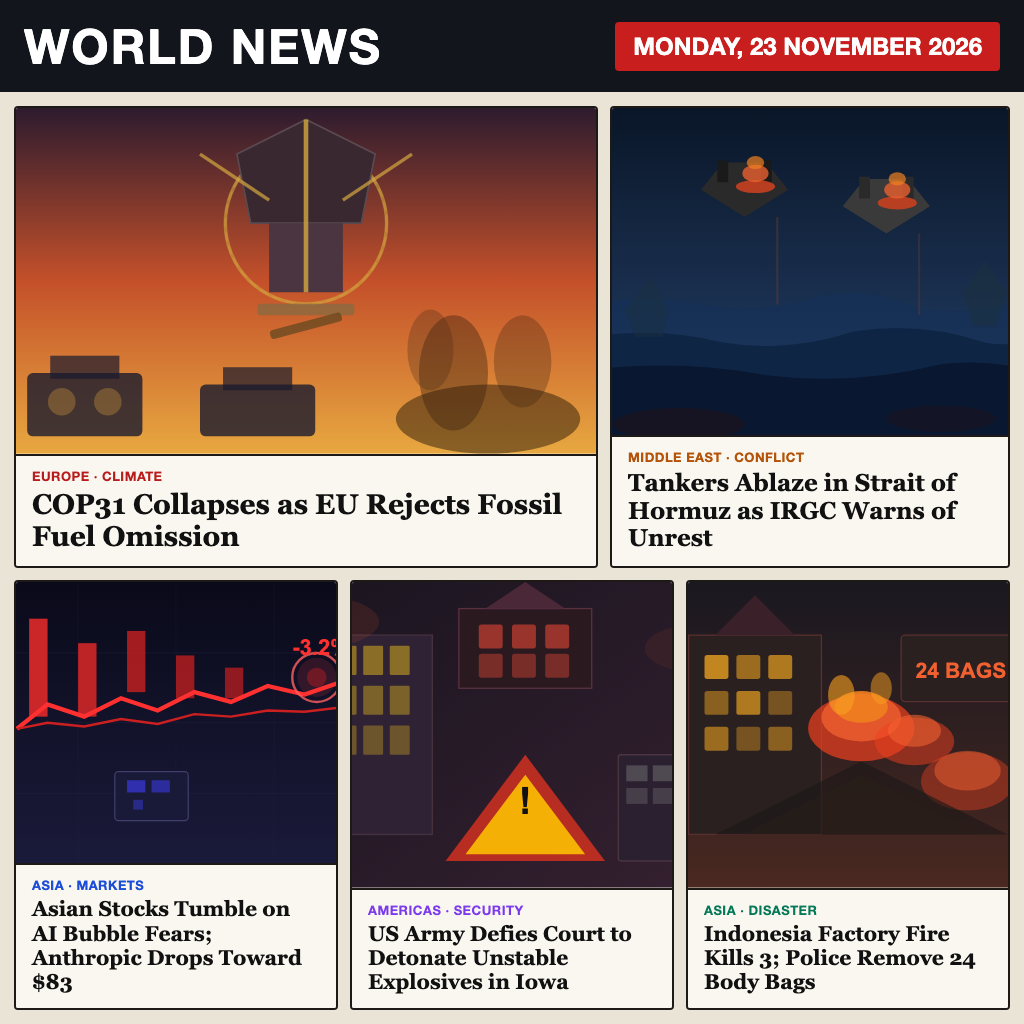
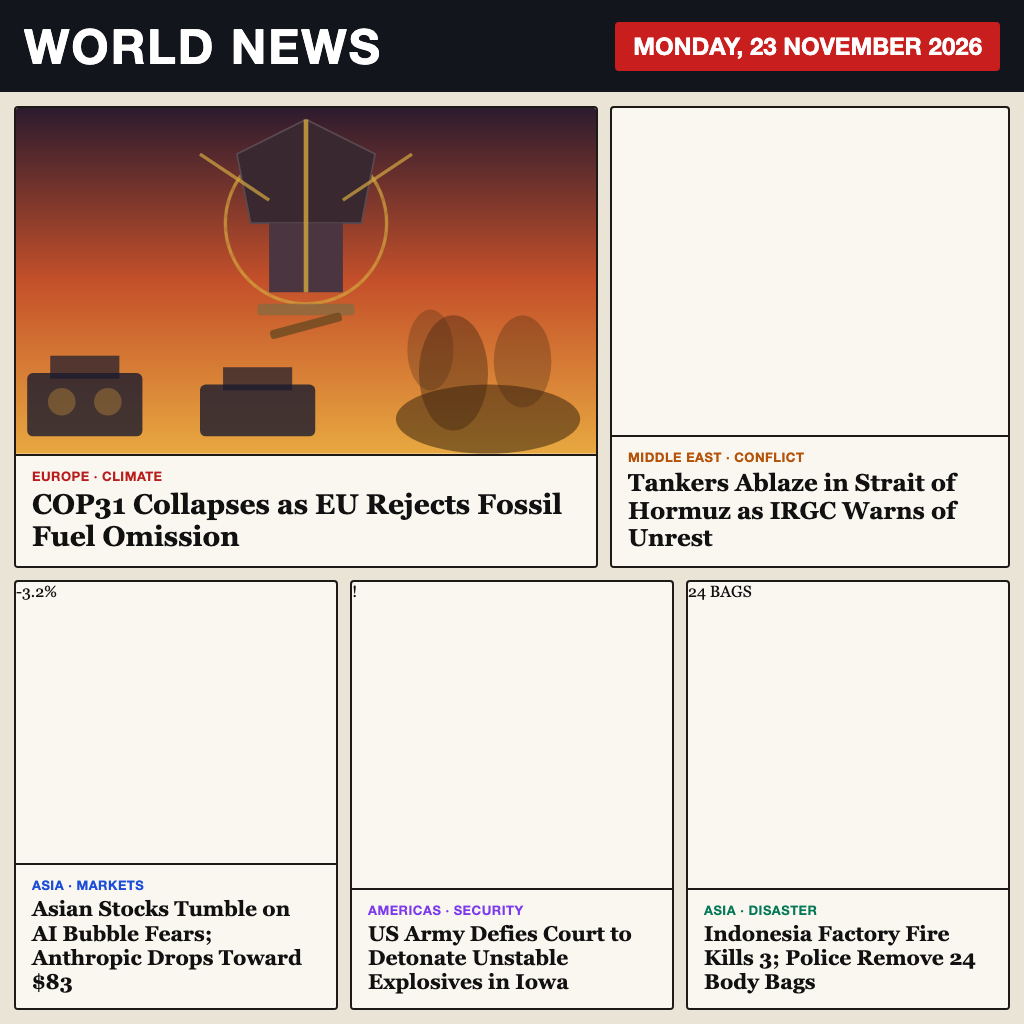
Authorship: SVG + HTML comments via Edit tool

diff --git a/assets/page.html b/assets/page.html
@@ -1,4 +1,4 @@
-<!DOCTYPE html>
+<!-- Editorial news template: 5-card grid layout -->
 <html><head><meta charset="utf-8"><style>
 *{margin:0;padding:0;box-sizing:border-box}
 body{width:1024px;height:1024px;overflow:hidden;background:#EAE4D7;font-family:Georgia,serif;color:#111}
@@ -25,22 +25,27 @@ body{width:1024px;height:1024px;overflow:hidden;background:#EAE4D7;font-family:G
 <div class="card hero"><div class="art-box"><svg xmlns="http://www.w3.org/2000/svg" viewBox="0 0 584 300" preserveAspectRatio="xMidYMid slice">
   <defs><linearGradient id="sky1" x1="0" y1="0" x2="0" y2="1"><stop offset="0%" stop-color="#2d1b2e"/><stop offset="50%" stop-color="#c4502a"/><stop offset="100%" stop-color="#e8a840"/></linearGradient></defs>
   <rect width="584" height="300" fill="url(#sky1)"/>
-  <circle cx="292" cy="100" r="70" fill="none" stroke="#d4a840" stroke-width="3" opacity="0.6"/><circle cx="292" cy="100" r="70" fill="none" stroke="#d4a840" stroke-width="2" stroke-dasharray="8,4" opacity="0.3"/>
+  <circle cx="292" cy="100" r="70" fill="none" stroke="#d4a840" stroke-width="3" opacity="0.6"/>
+  <circle cx="292" cy="100" r="70" fill="none" stroke="#d4a840" stroke-width="2" stroke-dasharray="8,4" opacity="0.3"/>
   <polygon points="232,40 292,10 352,40 340,100 244,100" fill="#3a2830" stroke="#5a4a50" stroke-width="1.5"/>
   <polygon points="260,100 324,100 324,160 260,160" fill="#4a3540"/>
   <line x1="292" y1="10" x2="292" y2="160" stroke="#d4a840" stroke-width="4" opacity="0.8"/>
   <line x1="260" y1="80" x2="200" y2="40" stroke="#d4a840" stroke-width="3" opacity="0.7"/>
   <line x1="324" y1="80" x2="384" y2="40" stroke="#d4a840" stroke-width="3" opacity="0.7"/>
-  <rect x="50" y="230" width="100" height="55" rx="5" fill="#1a1a2e" opacity="0.8"/><rect x="70" y="215" width="60" height="20" fill="#1a1a2e" opacity="0.7"/>
-  <circle cx="80" cy="255" r="12" fill="#e8a840" opacity="0.3"/><circle cx="120" cy="255" r="12" fill="#e8a840" opacity="0.3"/>
-  <rect x="200" y="240" width="100" height="45" rx="5" fill="#1a1a2e" opacity="0.8"/><rect x="220" y="225" width="60" height="20" fill="#1a1a2e" opacity="0.7"/>
+  <rect x="50" y="230" width="100" height="55" rx="5" fill="#1a1a2e" opacity="0.8"/>
+  <rect x="70" y="215" width="60" height="20" fill="#1a1a2e" opacity="0.7"/>
+  <circle cx="80" cy="255" r="12" fill="#e8a840" opacity="0.3"/>
+  <circle cx="120" cy="255" r="12" fill="#e8a840" opacity="0.3"/>
+  <rect x="200" y="240" width="100" height="45" rx="5" fill="#1a1a2e" opacity="0.8"/>
+  <rect x="220" y="225" width="60" height="20" fill="#1a1a2e" opacity="0.7"/>
   <ellipse cx="450" cy="270" rx="80" ry="30" fill="#2a1a0a" opacity="0.5"/>
-  <ellipse cx="420" cy="230" rx="30" ry="50" fill="#3a2010" opacity="0.4"/><ellipse cx="480" cy="220" rx="25" ry="40" fill="#3a2010" opacity="0.3"/>
+  <ellipse cx="420" cy="230" rx="30" ry="50" fill="#3a2010" opacity="0.4"/>
+  <ellipse cx="480" cy="220" rx="25" ry="40" fill="#3a2010" opacity="0.3"/>
   <ellipse cx="400" cy="210" rx="20" ry="35" fill="#4a2a18" opacity="0.3"/>
   <rect x="250" y="170" width="84" height="10" rx="3" fill="#8a6a40" opacity="0.8"/>
   <rect x="260" y="185" width="64" height="8" rx="3" fill="#6a4a20" opacity="0.8" transform="rotate(-15,292,189)"/>
 </svg></div><div class="caption-box"><div class="kicker" style="color:#B91C1C">EUROPE · CLIMATE</div><div class="headline">COP31 Collapses as EU Rejects Fossil Fuel Omission</div></div></div>
-<div class="card r1r"><div class="art-box"><svg xmlns="http://www.w3.org/2000/svg" viewBox="0 0 400 300" preserveAspectRatio="xMidYMid slice">
+<div class="card r1r"><div class="art-box"><!-- Hormuz Strait: tanker attack illustration -->
   <defs><linearGradient id="sea" x1="0" y1="0" x2="0" y2="1"><stop offset="0%" stop-color="#0a1628"/><stop offset="60%" stop-color="#1a3050"/><stop offset="100%" stop-color="#2a4568"/></linearGradient></defs>
   <rect width="400" height="300" fill="url(#sea)"/>
   <path d="M0,180 Q50,170 100,180 Q150,190 200,175 Q250,160 300,185 Q350,190 400,175 L400,300 L0,300Z" fill="#143058" opacity="0.6"/>
@@ -67,7 +72,7 @@ body{width:1024px;height:1024px;overflow:hidden;background:#EAE4D7;font-family:G
 </svg></div><div class="caption-box"><div class="kicker" style="color:#B45309">MIDDLE EAST · CONFLICT</div><div class="headline">Tankers Ablaze in Strait of Hormuz as IRGC Warns of Unrest</div></div></div>
 </div>
 <div class="row2">
-<div class="card r2"><div class="art-box"><svg xmlns="http://www.w3.org/2000/svg" viewBox="0 0 320 230" preserveAspectRatio="xMidYMid slice">
+<div class="card r2"><div class="art-box"><!-- Asian markets: AI bubble crash illustration -->
   <defs><linearGradient id="b3" x1="0" y1="0" x2="0" y2="1"><stop offset="0%" stop-color="#0a0a1a"/><stop offset="100%" stop-color="#1a1a3a"/></linearGradient></defs>
   <rect width="320" height="230" fill="url(#b3)"/>
   <line x1="0" y1="58" x2="320" y2="58" stroke="#2a2a4a" stroke-width="0.5" opacity="0.5"/>
@@ -94,7 +99,7 @@ body{width:1024px;height:1024px;overflow:hidden;background:#EAE4D7;font-family:G
   <rect x="125" y="178" width="8" height="8" fill="#4040ff" opacity="0.4"/>
   <text x="255" y="60" font-family="Arial,sans-serif" font-weight="900" font-size="18" fill="#ff3030">-3.2%</text>
 </svg></div><div class="caption-box"><div class="kicker" style="color:#1D4ED8">ASIA · MARKETS</div><div class="headline">Asian Stocks Tumble on AI Bubble Fears; Anthropic Drops Toward $83</div></div></div>
-<div class="card r2"><div class="art-box"><svg xmlns="http://www.w3.org/2000/svg" viewBox="0 0 320 230" preserveAspectRatio="xMidYMid slice">
+<div class="card r2"><div class="art-box"><!-- Iowa Army plant: explosives detonation -->
   <defs><linearGradient id="bg4" x1="0" y1="0" x2="1" y2="1"><stop offset="0%" stop-color="#1a1520"/><stop offset="100%" stop-color="#352030"/></linearGradient></defs>
   <rect width="320" height="230" fill="url(#bg4)"/>
   <rect x="20" y="40" width="80" height="150" fill="#2a2030" stroke="#4a3540" stroke-width="1"/>
@@ -127,7 +132,7 @@ body{width:1024px;height:1024px;overflow:hidden;background:#EAE4D7;font-family:G
   <ellipse cx="10" cy="30" rx="50" ry="20" fill="#c85030" opacity="0.15"/>
   <ellipse cx="300" cy="50" rx="40" ry="18" fill="#c85030" opacity="0.1"/>
 </svg></div><div class="caption-box"><div class="kicker" style="color:#7C3AED">AMERICAS · SECURITY</div><div class="headline">US Army Defies Court to Detonate Unstable Explosives in Iowa</div></div></div>
-<div class="card r2"><div class="art-box"><svg xmlns="http://www.w3.org/2000/svg" viewBox="0 0 320 230" preserveAspectRatio="xMidYMid slice">
+<div class="card r2"><div class="art-box"><!-- Indonesia: factory fire disaster illustration -->
   <defs><linearGradient id="bg5" x1="0" y1="0" x2="0" y2="1"><stop offset="0%" stop-color="#1a1820"/><stop offset="50%" stop-color="#302020"/><stop offset="100%" stop-color="#4a2820"/></linearGradient></defs>
   <rect width="320" height="230" fill="url(#bg5)"/>
   <rect x="40" y="40" width="100" height="150" fill="#2a2020" stroke="#5a3030" stroke-width="1"/>

diff --git a/assets/template.html b/assets/template.html
@@ -1,4 +1,4 @@
-<!DOCTYPE html>
+<!-- Editorial news template: 5-card grid layout -->
 <html><head><meta charset="utf-8"><style>
 *{margin:0;padding:0;box-sizing:border-box}
 body{width:1024px;height:1024px;overflow:hidden;background:#EAE4D7;font-family:Georgia,serif;color:#111}
